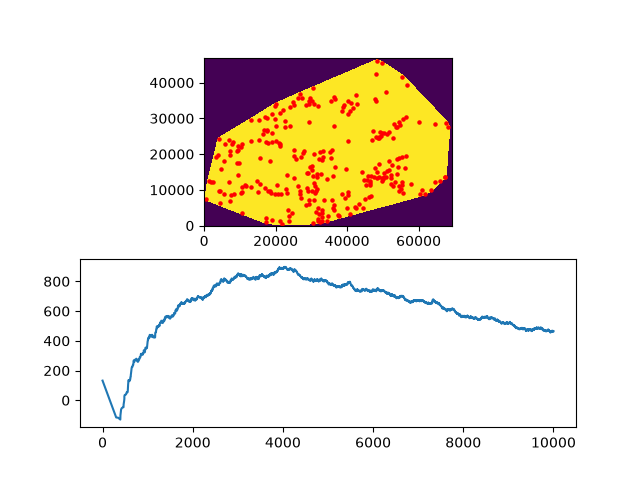
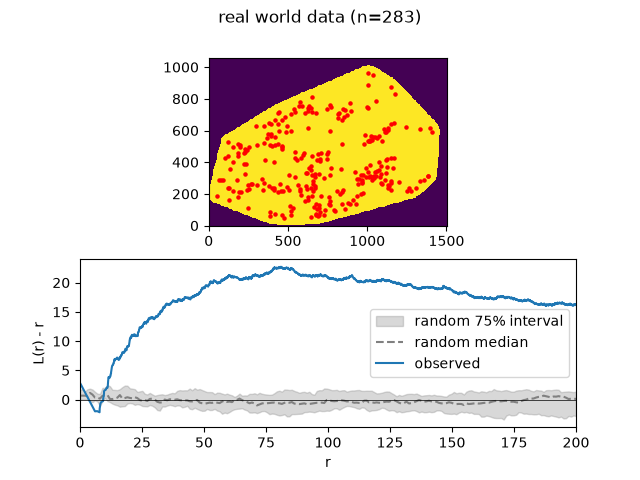
Updated images to have random interval.
Added method to the readme

diff --git a/example2.py b/example2.py
@@ -7,10 +7,12 @@ from scipy.spatial import ConvexHull
 
 from ripleypy import generate_points_in_mask, ripley
 
-SCALE = 50
+SCALE = 5  # raw data units per mask pixel; the test data spans ~1360 x 910 units
 PAD_REGION = 10
 N_DISTANCES = int(1e4)
-RMAX = 10000
+RMAX = 200
+N_RANDOM_CURVES = 10
+BAND_PERCENTILES = (12.5, 87.5)  # a "75% interval" around the median
 
 data = np.loadtxt(Path(Path.cwd(), "testdata", "testdata.csv"), delimiter=",")
 
@@ -24,8 +26,6 @@ data[:, 1] /= SCALE
 
 # Shift from (0,0)
 data += PAD_REGION
-
-data = np.loadtxt(Path(Path.cwd(), "testdata", "testdata.csv"), delimiter=",")
 
 # Create mask from Convex hull
 hull = ConvexHull(data)
@@ -42,36 +42,42 @@ poly = shapely.Polygon(hull_pts).buffer(PAD_REGION)
 pts = shapely.points(X.ravel(), Y.ravel())
 mask = shapely.contains(poly, pts).reshape(height, width)
 
+rmax_pixels = RMAX / SCALE
+r, l_function, meta = ripley(data, mask, N_DISTANCES, rmax_pixels)
+l_minus_r = (l_function - r) * SCALE
+r *= SCALE
+
+# Random curves in the same mask, to show the noise floor as a median +/- percentile band
+random_curves = []
+for _ in range(N_RANDOM_CURVES):
+    points = generate_points_in_mask(len(data), mask)
+    r_rand, l_rand, _ = ripley(points, mask, N_DISTANCES, rmax_pixels)
+    random_curves.append((r_rand * SCALE, (l_rand - r_rand) * SCALE))
+
+r_common = np.linspace(0, RMAX, 200)
+interpolated = np.array([np.interp(r_common, r_i, l_i) for r_i, l_i in random_curves])
+median = np.median(interpolated, axis=0)
+lo, hi = np.percentile(interpolated, BAND_PERCENTILES, axis=0)
+
 fig, (ax1, ax2) = plt.subplots(nrows=2, ncols=1)
-# Display data
+
 ax1.imshow(mask, origin="lower", extent=(0, width * SCALE, 0, height * SCALE), interpolation="nearest")
 ax1.scatter(data[:, 0] * SCALE, data[:, 1] * SCALE, s=5, c="r")
+ax1.set_aspect("equal", adjustable="box")
 
-r, l_function, meta = ripley(data, mask, N_DISTANCES, RMAX / SCALE)
-r *= SCALE
-l_function *= SCALE
+band_width = BAND_PERCENTILES[1] - BAND_PERCENTILES[0]
+ax2.fill_between(r_common, lo, hi, color="grey", alpha=0.3, label=f"random {band_width:.0f}% interval")
+ax2.plot(r_common, median, color="grey", linestyle="--", label="random median")
+ax2.plot(r, l_minus_r, color="C0", label="observed")
+ax2.axhline(0, color="black", linewidth=0.5)
+ax2.set_xlim(0, RMAX)
+ax2.set_xlabel("r")
+ax2.set_ylabel("L(r) - r")
+ax2.legend()
 
-ax2.plot(r, l_function - r)
+fig.suptitle(f"real world data (n={len(data)})")
+
 out_path = Path(Path.cwd(), "img", "example2_ripley.png")
 out_path.parent.mkdir(parents=True, exist_ok=True)
 fig.savefig(out_path)
 print(out_path)
-fig.clf()
-
-# Generate random curves in mask
-fig, (ax1, ax2) = plt.subplots(nrows=2, ncols=1)
-for i in range(10):
-    points = generate_points_in_mask(len(data), mask)
-    if i == 0:
-        ax1.imshow(mask, origin="lower", extent=(0, width * SCALE, 0, height * SCALE), interpolation="nearest")
-        ax1.scatter(points[:, 0] * SCALE, points[:, 1] * SCALE, s=5, c="r")
-    r, l_function, meta = ripley(points, mask, N_DISTANCES, RMAX / SCALE)
-    r *= SCALE
-    l_function *= SCALE
-    ax2.plot(r, l_function - r)
-
-out_path = Path(Path.cwd(), "img", "example2_ripley_random.png")
-out_path.parent.mkdir(parents=True, exist_ok=True)
-fig.savefig(out_path)
-print(out_path)
-fig.clf()

diff --git a/example1.py b/example1.py
@@ -14,28 +14,54 @@ N_POINTS = 2000
 BOUNDS = (200, 100)
 N_DISTANCES = 20000
 RMAX = 50
+N_RANDOM_CURVES = 10
+BAND_PERCENTILES = (12.5, 87.5)  # a "75% interval" around the median
 FRACTION = 0.0
 if mode == "clustered_example":
     FRACTION = 0.2
 
+mask = np.ones((BOUNDS[1], BOUNDS[0]), dtype=np.bool)
+
+# Generate some testdata
+options = PointOptions(
+    mode=PointOptions.PointMode.RECTANGLE, width=BOUNDS[0], height=BOUNDS[1], center=(BOUNDS[0] / 2, BOUNDS[1] / 2)
+)
+points1 = generate_points(N_POINTS - int(N_POINTS * FRACTION), options)
+options = PointOptions(mode=PointOptions.PointMode.CIRCLE, radius=10, center=(BOUNDS[0] / 2, BOUNDS[1] / 2))
+points2 = generate_points(int(N_POINTS * FRACTION), options)
+points = np.concatenate((points1, points2), axis=0)
+
+r, l_function, _ = ripley(points, mask, N_DISTANCES, RMAX)
+l_minus_r = l_function - r
+
+# Random curves in the same mask, to show the noise floor as a median +/- percentile band
+random_curves = []
+for _ in range(N_RANDOM_CURVES):
+    r_rand, l_rand, _ = ripley(points, mask, N_DISTANCES, RMAX, do_random=True)
+    random_curves.append((r_rand, l_rand - r_rand))
+
+r_common = np.linspace(0, RMAX, 200)
+interpolated = np.array([np.interp(r_common, r_i, l_i) for r_i, l_i in random_curves])
+median = np.median(interpolated, axis=0)
+lo, hi = np.percentile(interpolated, BAND_PERCENTILES, axis=0)
+
 fig, (ax1, ax2) = plt.subplots(nrows=2, ncols=1)
-for i in range(10):
-    # Generate some testdata
-    mask = np.ones((BOUNDS[1], BOUNDS[0]), dtype=np.bool)
-    options = PointOptions(
-        mode=PointOptions.PointMode.RECTANGLE, width=BOUNDS[0], height=BOUNDS[1], center=(BOUNDS[0] / 2, BOUNDS[1] / 2)
-    )
-    points1 = generate_points(N_POINTS - int(N_POINTS * FRACTION), options)
-    options = PointOptions(mode=PointOptions.PointMode.CIRCLE, radius=10, center=(BOUNDS[0] / 2, BOUNDS[1] / 2))
-    points2 = generate_points(int(N_POINTS * FRACTION), options)
-    points = np.concatenate((points1, points2), axis=0)
 
-    r, l_function, _ = ripley(points, mask, N_DISTANCES, RMAX)
+ax1.imshow(mask, origin="lower", extent=(0, BOUNDS[0], 0, BOUNDS[1]), interpolation="nearest")
+ax1.plot(points[:, 0], points[:, 1], "o", markersize=1, color="r")
+ax1.set_aspect("equal", adjustable="box")
 
-    if i == 0:
-        ax1.plot(points[:, 0], points[:, 1], "o", markersize=1)
-        ax1.set_aspect("equal", adjustable="box")
-    ax2.plot(r, l_function - r)
+band_width = BAND_PERCENTILES[1] - BAND_PERCENTILES[0]
+ax2.fill_between(r_common, lo, hi, color="grey", alpha=0.3, label=f"random {band_width:.0f}% interval")
+ax2.plot(r_common, median, color="grey", linestyle="--", label="random median")
+ax2.plot(r, l_minus_r, color="C0", label=mode)
+ax2.axhline(0, color="black", linewidth=0.5)
+ax2.set_xlim(0, RMAX)
+ax2.set_xlabel("r")
+ax2.set_ylabel("L(r) - r")
+ax2.legend()
+
+fig.suptitle(f"{mode} (n={len(points)})")
 
 # Store figure
 out_path = Path(Path.cwd(), "img", "example1_" + mode + ".png")

diff --git a/README.md b/README.md
@@ -1,14 +1,27 @@
 # Ripley-py
 Performs 2D ripley analysis of points inside a masked area.
+Edge correction is performed in accordance with the description by Peter Haase (1995)
+> Edge corrections by weighting It(uij) were employed by
+Getis & Franklin (1987) and Andersen (1992). The
+weighting factor wij is equal to the proportion of the
+circumference of the circle with radius uij and centred on
+point i and passing through j, that lies within the plot
+boundaries.
 
+This is approximated by 256 points on a circle.
+
+# Examples
+Each example plots the masked area with the points on top, and below it the
+observed L(r) - r curve against the random-noise floor (median +/- 75%
+interval from repeated random draws in the same mask).
 
 ## Example images 1
 Generated with [example1.py](example1.py)
 
 ### Random
-![Example of 10 ripleycurves from random points](img/example1_random_example.png)
+![Ripley L(r) - r curve for uniformly random points, against the random noise floor](img/example1_random_example.png)
 ### Clustered
-![Example of 10 ripleycurves from clustered points](img/example1_clustered_example.png)
+![Ripley L(r) - r curve for clustered points, against the random noise floor](img/example1_clustered_example.png)
 
 ## Example images 2
 Generated with [example2.py](example2.py)
@@ -16,8 +29,4 @@ Generated with [example2.py](example2.py)
 ### Real world data
 Mask from convex hull of the points
 
-![Example of 10 ripleycurves from random points](img/example2_ripley.png)
-### Randomized data
-Generated 10x in the same mask
-
-![Example of 10 ripleycurves from clustered points](img/example2_ripley_random.png)
+![Ripley L(r) - r curve for real world data, against the random noise floor](img/example2_ripley.png)